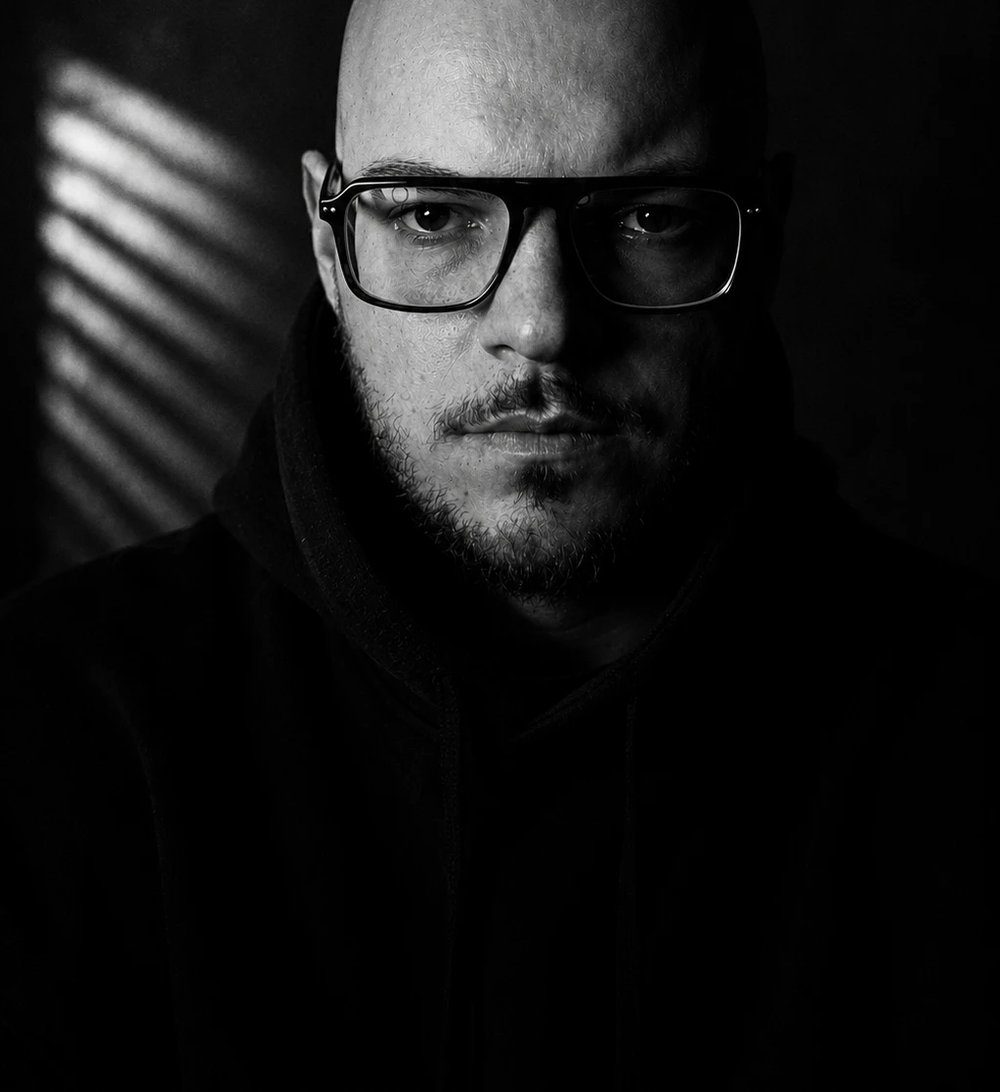
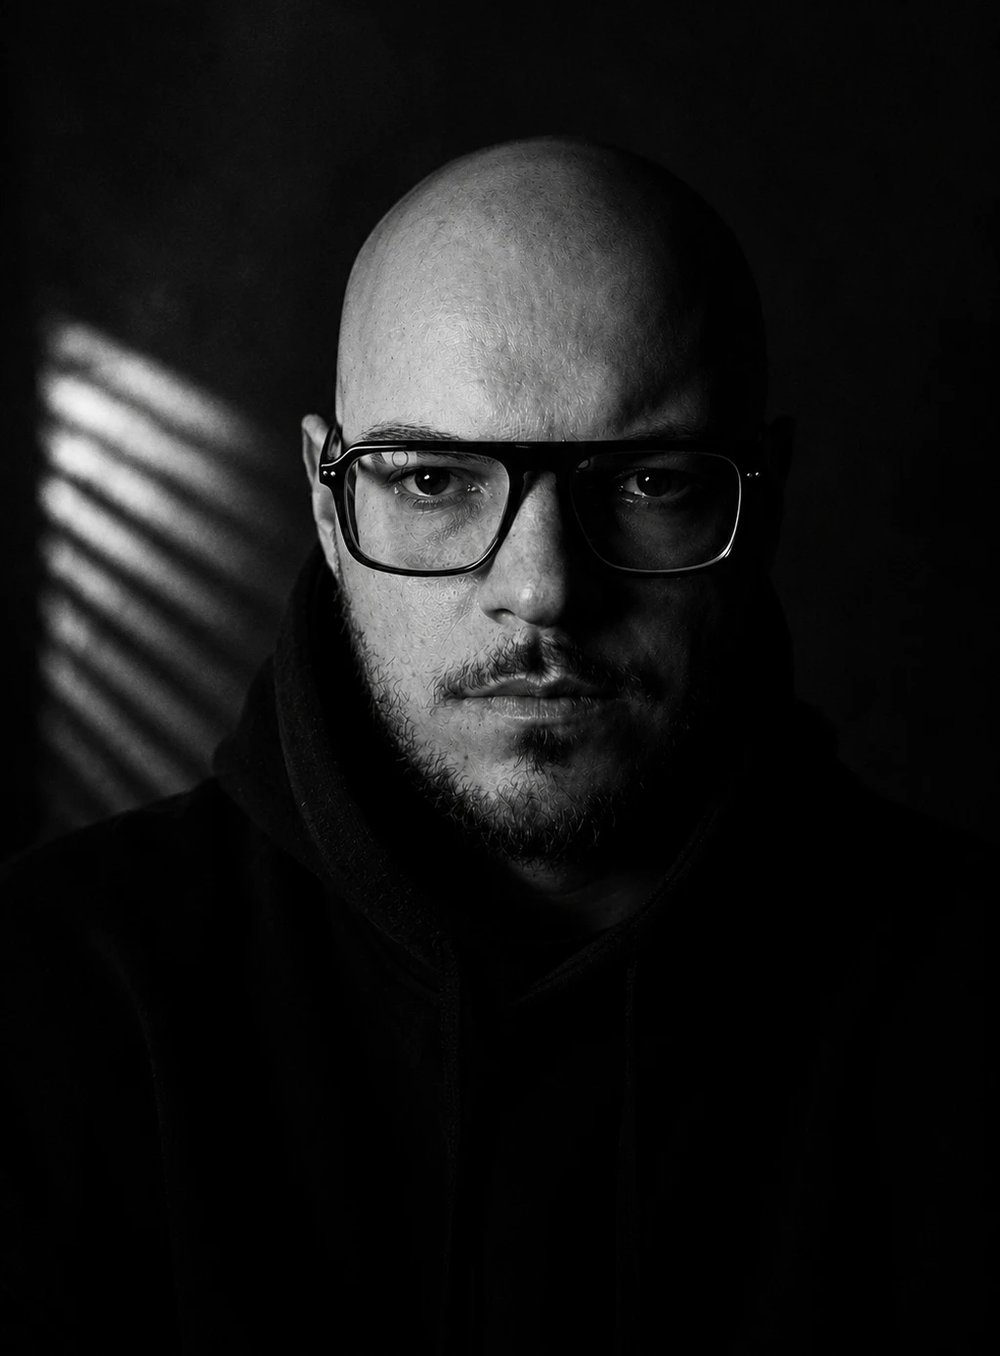
Zoom out the About page portrait

Changed region(s): [[0.031, 0.0, 0.744, 0.6538], [0.713, 0.3736, 0.744, 0.4048]]

diff --git a/style.css b/style.css
@@ -422,7 +422,8 @@ a { color: inherit; }
 .name-box .role { font-size: 0.95rem; color: var(--ink-dim); font-weight: 500; }
 
 .about-photo { max-width: var(--max-width); margin: 0 auto 40px; border-radius: var(--radius); overflow: hidden; }
-.about-photo img { width: 100%; max-height: 520px; object-fit: cover; object-position: top; }
+.about-photo { max-width: 640px; }
+.about-photo img { width: 100%; max-height: 800px; object-fit: cover; object-position: top; border-radius: var(--radius); }
 
 .about-panel { max-width: var(--max-width); margin: 0 auto 70px; }
 .about-panel-inner { padding: 40px 34px 46px; text-align: center; }
